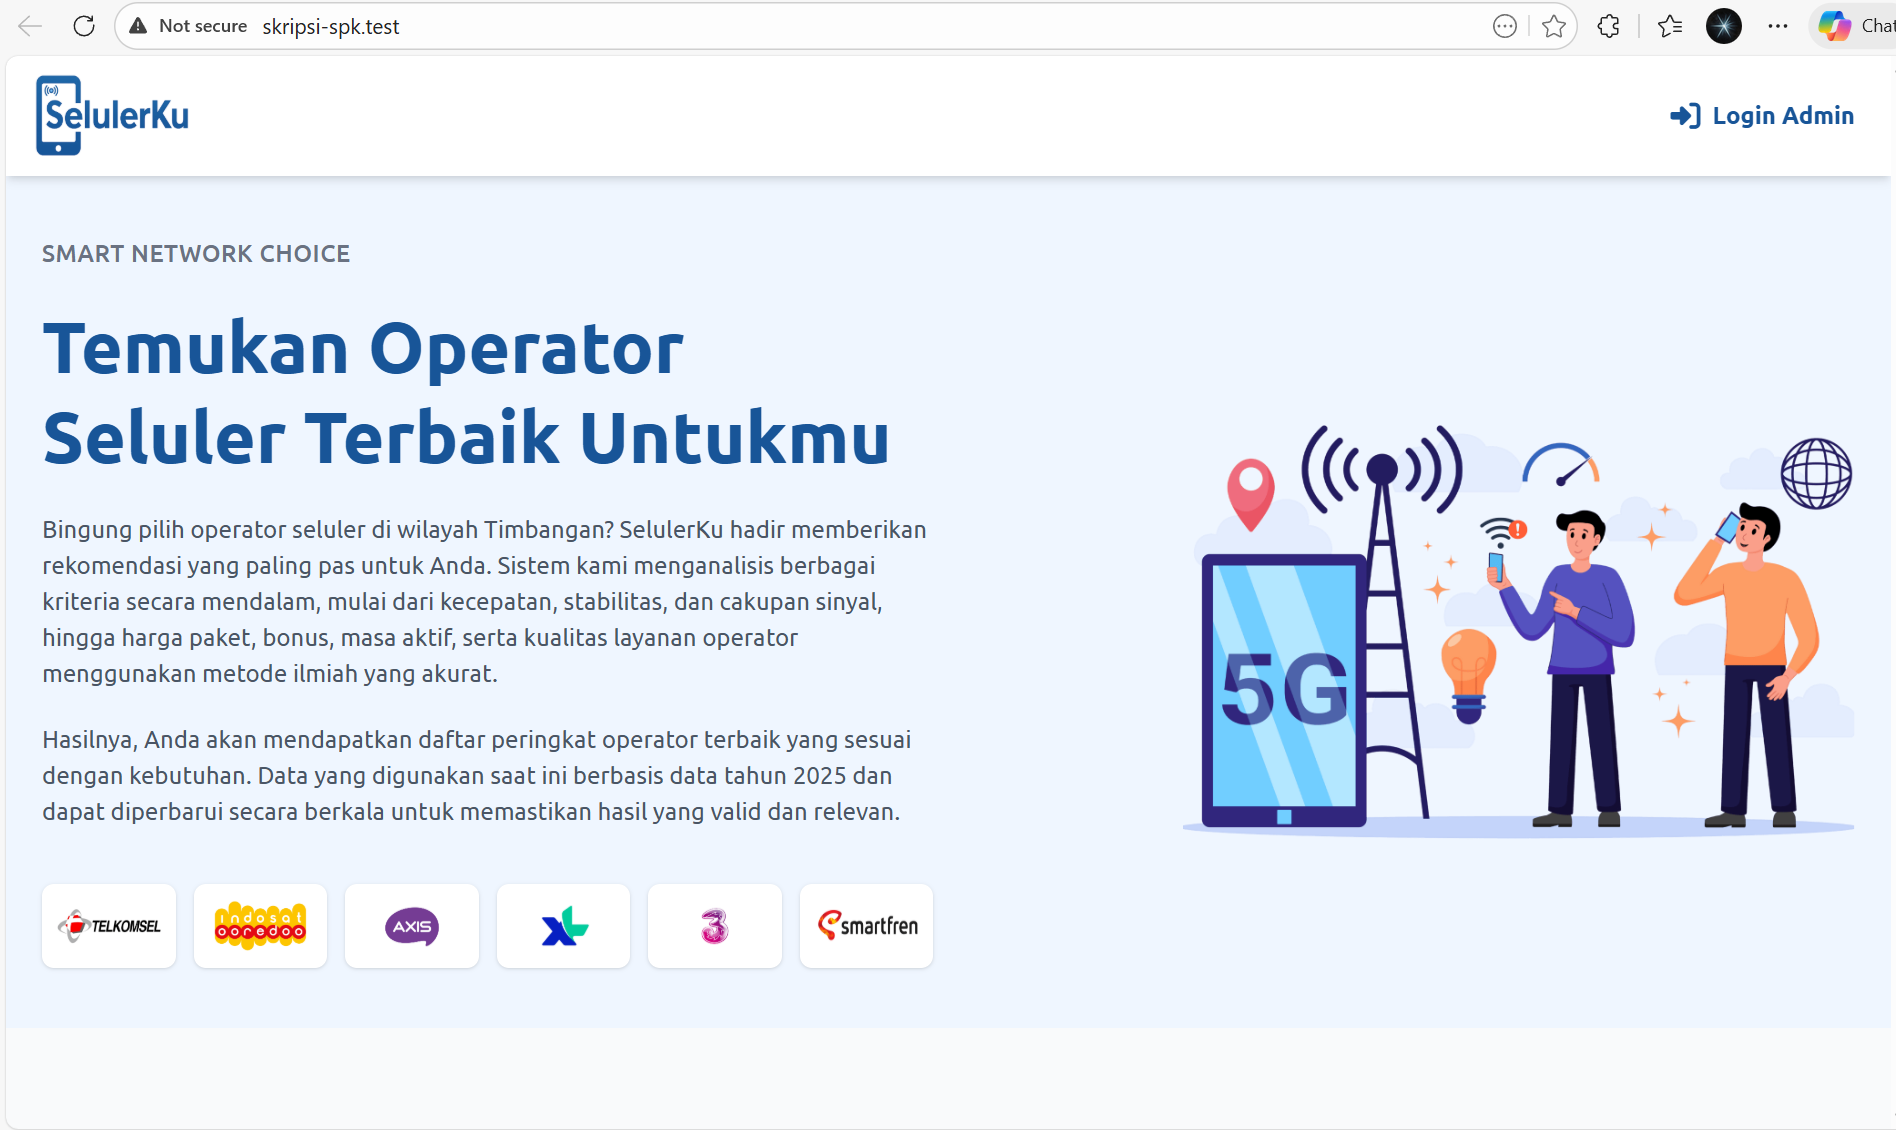
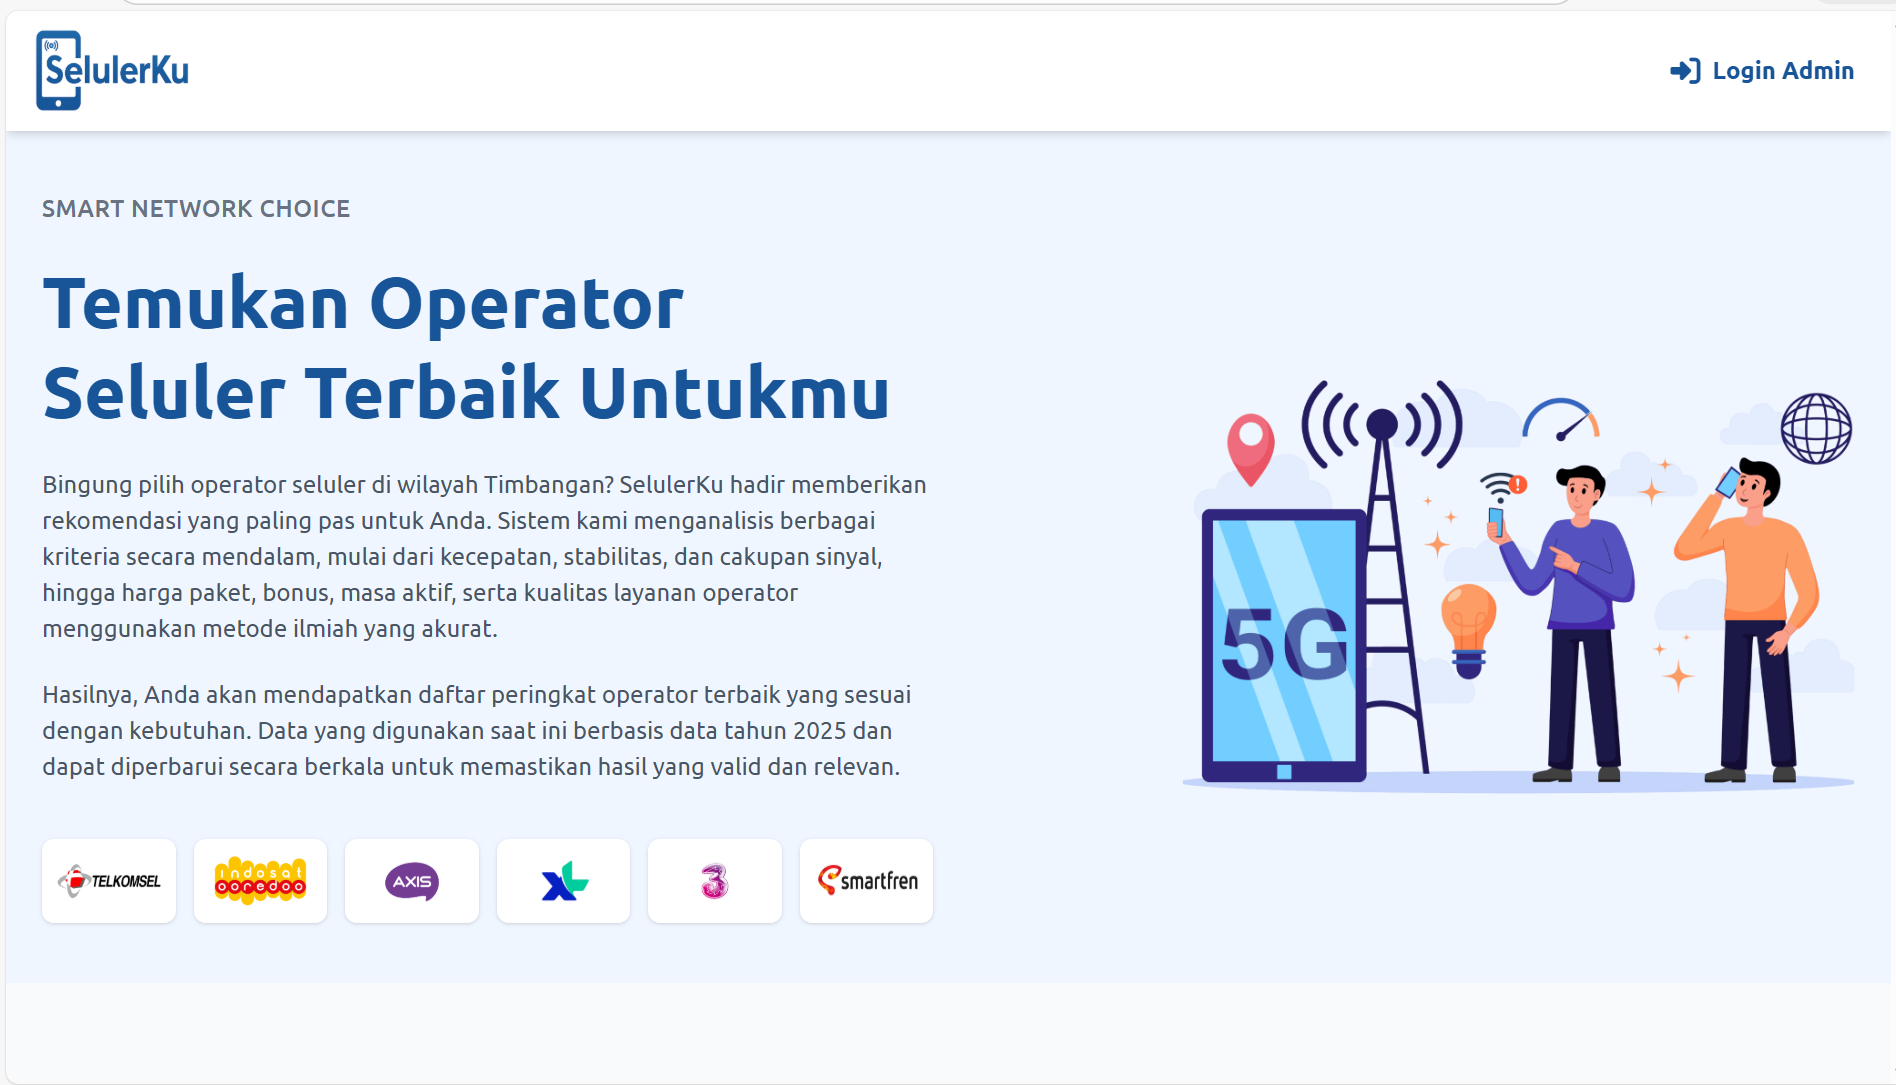
update cards

diff --git a/src/components/Certificates.jsx b/src/components/Certificates.jsx
@@ -3,31 +3,37 @@ import {ChevronLeft,ChevronRight,ArrowUpRight,Award,} from "lucide-react";
 
 const certificates = [
   {
-    title: "Belajar Machine Learning",
-    issuer: "Dicoding Indonesia",
+    title: "Intro to Data Analytics",
+    issuer: "RevoU",
+    year: "2026",
+    link: "https://drive.google.com/file/d/1oOGfccqWCFWP-g5nPaTFZB7SiKu3NAF7/view",
+  },
+
+  {
+    title: "Data Analysis",
+    issuer: "MySkill",
+    year: "2026",
+    link: "https://storage.googleapis.com/myskill-v2-certificates/topic-qtKMZ78xyd6TPzUQOESu/5cyl2FSxsmNQ67dJAXEh0309LyE3-3tD4fYCcToOVDF7gYp3X.pdf",
+  },
+
+  {
+    title: "Data Science",
+    issuer: "MySkill",
+    year: "2026",
+    link: "https://storage.googleapis.com/myskill-v2-certificates/topic-4TAQx7X8U6vFPkMvU9L6/5cyl2FSxsmNQ67dJAXEh0309LyE3-jStnZJP0eGuldZeBWFpS.pdf",
+  },
+
+  {
+    title: "Content Creator (Digital Marketing)",
+    issuer: "Badan Nasional Sertifikasi Profesi (BNSP)",
     year: "2025",
-    link: "https://drive.google.com/",
+    link: "https://drive.google.com/drive/folders/1gZHnaY7rDYz0m4VHS_mbZJnhsWPdWl4T",
   },
-
   {
-    title: "Belajar Dasar Data Science",
-    issuer: "Dicoding Indonesia",
-    year: "2025",
-    link: "https://drive.google.com/",
-  },
-
-  {
-    title: "Responsive Web Design",
-    issuer: "freeCodeCamp",
-    year: "2024",
-    link: "https://drive.google.com/",
-  },
-
-  {
-    title: "Python for Data Science",
-    issuer: "IBM",
-    year: "2024",
-    link: "https://drive.google.com/",
+    title: "Computer and Network Engineering",
+    issuer: "Badan Nasional Sertifikasi Profesi (BNSP)",
+    year: "2022",
+    link: "http://drive.google.com/drive/folders/1gCa3-qY5IV0L4Qk9CJbvCmBnjTNlQ89N",
   },
 ];
 
@@ -141,18 +147,20 @@ const Certificates = () => {
                   md:max-w-[355px]
                   2xl:max-w-[470px]
 
-                  bg-white border-2 border-cyan-400 rounded-3xl p-5 shrink-0 hover:-translate-y-2 transition-allduration-500
+                  overflow-hidden bg-white/5 backdrop-blur-md border p-5 border-white/20 rounded-3xl transition-all duration-300
+                  hover:-translate-y-2 hover:border-cyan-400/50 hover:shadow-[0_0_40px_rgba(34,211,238,0.15)]
                 "
               >
-                <div className="md:w-12 md:h-12 2xl:w-1/6 2xl:h-1/4  w-10 h-10 rounded-2xl bg-cyan-400 flex items-center justify-center">
+                <div className="md:w-12 md:h-12 2xl:w-1/6 2xl:h-1/4  w-10 h-10 rounded-2xl flex items-center justify-center
+                                 text-black transition-all duration-300 bg-cyan-400 border border-cyan-400/20 group-hover:scale-110">
                   <Award className="2xl:w-14 xl:h-14 md:w-9 md:h-9 w-7 h-7" />
                 </div>
 
                 {/* CONTENT */}
-                <p className="mt-2 2xl:mt-4 text-black font-bold text-sm md:text-lg 2xl:text-3xl">{cert.title}</p>
-                <p className="mt-2 2xl:mt-4 text-cyan-700 font-semibold text-sm md:text-base 2xl:text-2xl">{cert.issuer}</p>
-                <p className="text-gray-500 text-sm 2xl:text-xl 2xl:mt-1">Issued {cert.year}</p>
-                <div className="mt-5 2xl:mb-5 flex items-center gap-2 text-sm 2xl:text-2xl font-semibold text-black">
+                <p className="mt-2 2xl:mt-4 text-white font-bold text-sm md:text-lg 2xl:text-3xl">{cert.title}</p>
+                <p className="mt-2 2xl:mt-4 text-cyan-400 font-semibold text-sm md:text-base 2xl:text-2xl">{cert.issuer}</p>
+                <p className="text-gray-300 text-sm 2xl:text-xl 2xl:mt-1">Issued {cert.year}</p>
+                <div className="mt-5 2xl:mb-5 flex items-center gap-2 text-sm 2xl:text-2xl font-semibold text-white">
                   View Certificate
                   <ArrowUpRight className="group-hover:translate-x-1 group-hover:-translate-y-1 transition 2xl:w-7 xl:h-7 w-5 h-5"/>
                 </div>

diff --git a/src/components/Projects.jsx b/src/components/Projects.jsx
@@ -3,6 +3,8 @@ import {ArrowUpRight, ChevronLeft, ChevronRight,} from "lucide-react";
 
 import sipindang from "../assets/img/sipindang.png";
 import SelulerKu from "../assets/img/SelulerKu.png";
+import Sp2d from "../assets/img/sp2d.jpeg";
+import Tpp from "../assets/img/tpp.jpeg";
 
 const projects = [
   {
@@ -10,7 +12,7 @@ const projects = [
     category: "Web Development",
     role: "Front-End",
     description:
-      "Membantu pengelolaan data aset daerah melalui proses pendataan, inventarisasi, dan pelaporan secara terstruktur dan terintegrasi.",
+      "Facilitates the management of regional asset data through structured and integrated asset registration and reporting processes, ensuring better accuracy and efficiency in asset administration.",
     tech: ["Laravel", "Javascript", "Bootstrap"],
     image: sipindang,
     link: "https://sipindang.palembang.go.id/login",
@@ -21,34 +23,43 @@ const projects = [
     category: "Web Development",
     role: "Front-End",
     description:
-      "Membantu menentukan operator seluler terbaik dengan rekomendasi berbasis metode pengambilan keputusan yang cepat dan akurat.",
+      "Assists users in selecting the best mobile network operator by providing fast and accurate recommendations based on a decision-support method.",
     tech: ["Laravel", "Tailwind", "Javascript"],
     image: SelulerKu,
-    link: "#",
+    link: "https://selulerku-dss-swara-copras-laravel.vercel.app/",
   },
 
   {
-    title: "Klasifikasi PCOS Menggunakan TabNet",
-    category: "Machine Learning",
-    role: "Data Science",
+    title: "Sistem Informasi Manajemen SP2D Kota Palembang",
+    category: "Web Development",
+    role: "Front-End",
     description:
-      "Model klasifikasi PCOS menggunakan TabNet dan Explainable AI.",
-    tech: ["Python", "TabNet", "SHAP"],
-    image:
-      "https://images.unsplash.com/photo-1555949963-aa79dcee981c",
-    link: "#",
+      "Facilitates the SP2D process from submission to issuance through an integrated system that supports verification, approval, tracking, and efficient data management to ensure accuracy and transparency.",
+    tech: ["Laravel", "Tailwind", "Javascript"],
+    image:Sp2d,
+    link: "https://spmonline.palembang.go.id/",
   },
 
   {
-    title: "Mobile Banking UI Design",
-    category: "UI/UX or Design",
-    role: "UI Designer",
+    title: "Sistem Informasi TPP Kota Palembang",
+    category: "Web Development",
+    role: "Front-End",
     description:
-      "Desain antarmuka aplikasi mobile banking menggunakan Figma.",
-    tech: ["Figma", "UI Design"],
-    image:
-      "https://images.unsplash.com/photo-1581291518857-4e27b48ff24e",
-    link: "#",
+      "The TPP Information System of Palembang City is a system designed to manage Employee Additional Income (TPP) data in an integrated way, from calculation to reporting, to improve efficiency, accuracy, and transparency in TPP management",
+    tech: ["Laravel", "Javascript", "Bootstrap"],
+    image:Tpp,
+    link: "https://sistem-informasi-tpp.vercel.app/",
+  },
+
+  {
+    title: "Sistem Informasi TPP Kota Palembang",
+    category: "Web Development",
+    role: "Front-End",
+    description:
+      "The TPP Information System of Palembang City is a system designed to manage Employee Additional Income (TPP) data in an integrated way, from calculation to reporting, to improve efficiency, accuracy, and transparency in TPP management",
+    tech: ["Laravel", "Javascript", "Bootstrap"],
+    image:Tpp,
+    link: "https://sistem-informasi-tpp.vercel.app/",
   },
 ];
 
@@ -175,8 +186,8 @@ const filteredProjects =
                   md:max-w-[355px]
                   2xl:max-w-[470px]
 
-                  bg-white border-2 border-cyan-400 rounded-3xl relative overflow-hidden shrink-0 hover:-translate-y-2 transition-all duration-500
-                    hover:shadow-[0_0_40px_rgba(34,211,238,0.15)]
+                  overflow-hidden bg-white/5 backdrop-blur-md border border-white/20 rounded-3xl transition-all duration-300
+                  hover:-translate-y-2 hover:border-cyan-400/50 hover:shadow-[0_0_40px_rgba(34,211,238,0.15)]
                 "
               >
                 {/* IMAGE */}
@@ -191,7 +202,7 @@ const filteredProjects =
                 {/* CONTENT */}
                 <div className="2xl:p-5 p-3">
                   <div className="flex items-center justify-between">
-                    <span className="text-xs md:text-sm 2xl:text-lg font-bold text-cyan-700">
+                    <span className="text-xs md:text-sm 2xl:text-lg font-bold text-cyan-400">
                       {project.role}
                     </span>
 
@@ -201,11 +212,11 @@ const filteredProjects =
                     </span>
                   </div>
 
-                  <h3 className="text-xs md:text-base 2xl:text-xl font-bold text-black mt-2 2xl:mt-3 leading-snug">
+                  <h3 className="text-xs md:text-base 2xl:text-xl font-bold text-white mt-2 2xl:mt-3 leading-snug">
                     {project.title}
                   </h3>
 
-                  <p className="text-gray-600 text-xs md:text-sm 2xl:text-xl mt-2 2xl:mt-3 leading-relaxed">
+                  <p className="text-gray-400 text-xs md:text-sm 2xl:text-xl mt-2 2xl:mt-3 leading-relaxed">
                     {project.description}
                   </p>
 
@@ -217,7 +228,7 @@ const filteredProjects =
                     ))}
                   </div>
 
-                  <div className="md:mt-5 mt-3 mb-2 2xl:mt-7 flex items-center gap-2 text-xs md:text-sm 2xl:text-lg font-semibold text-black">
+                  <div className="md:mt-5 mt-3 mb-2 2xl:mt-7 flex items-center gap-2 text-xs md:text-sm 2xl:text-lg font-semibold text-white">
                     View Project
                     <ArrowUpRight size={20} className="group-hover:translate-x-1 group-hover:-translate-y-1 transition"/>
                   </div>

diff --git a/src/components/Experiences.jsx b/src/components/Experiences.jsx
@@ -127,7 +127,8 @@ const Experiences = () => {
                 md:max-w-[355px]
                 2xl:max-w-[470px]
 
-                bg-white border-2 border-cyan-400 rounded-3xl overflow-hidden flex-shrink-0 hover:-translate-y-2 transition-all duration-500"
+                  overflow-hidden bg-white/5 backdrop-blur-md border border-white/20 rounded-3xl transition-all duration-300
+                  hover:-translate-y-2 hover:border-cyan-400/50 hover:shadow-[0_0_40px_rgba(34,211,238,0.15)]"
               >
                 {/* IMAGE */}
                 <div className="overflow-hidden">
@@ -140,19 +141,19 @@ const Experiences = () => {
 
                 {/* CONTENT */}
                 <div className="p-4">
-                  <p className="text-xs md:text-sm 2xl:text-lg font-bold text-cyan-700">
+                  <p className="text-xs md:text-sm 2xl:text-lg font-bold text-cyan-400">
                     {exp.company}
                   </p>
 
-                  <h3 className="text-xs md:text-base 2xl:text-xl font-bold text-black mt-2">
+                  <h3 className="text-xs md:text-base 2xl:text-xl font-bold text-white mt-2">
                     {exp.position}
                   </h3>
 
-                  <p className="text-gray-500 text-sm 2xl:text-lg mt-1">
+                  <p className="text-gray-300 text-sm 2xl:text-lg mt-1">
                     {exp.period}
                   </p>
 
-                  <p className="text-gray-600 text-xs md:text-sm 2xl:text-xl mt-2 leading-relaxed">
+                  <p className="text-gray-300 text-xs md:text-sm 2xl:text-xl mt-2 leading-relaxed">
                     {exp.description}
                   </p>
 

diff --git a/src/components/Contact.jsx b/src/components/Contact.jsx
@@ -77,7 +77,7 @@ const Contact = () => {
                     text-cyan-400
                     transition-all
                     duration-300
-
+                    
                     group-hover:bg-cyan-400
                     group-hover:text-black
                     group-hover:scale-110